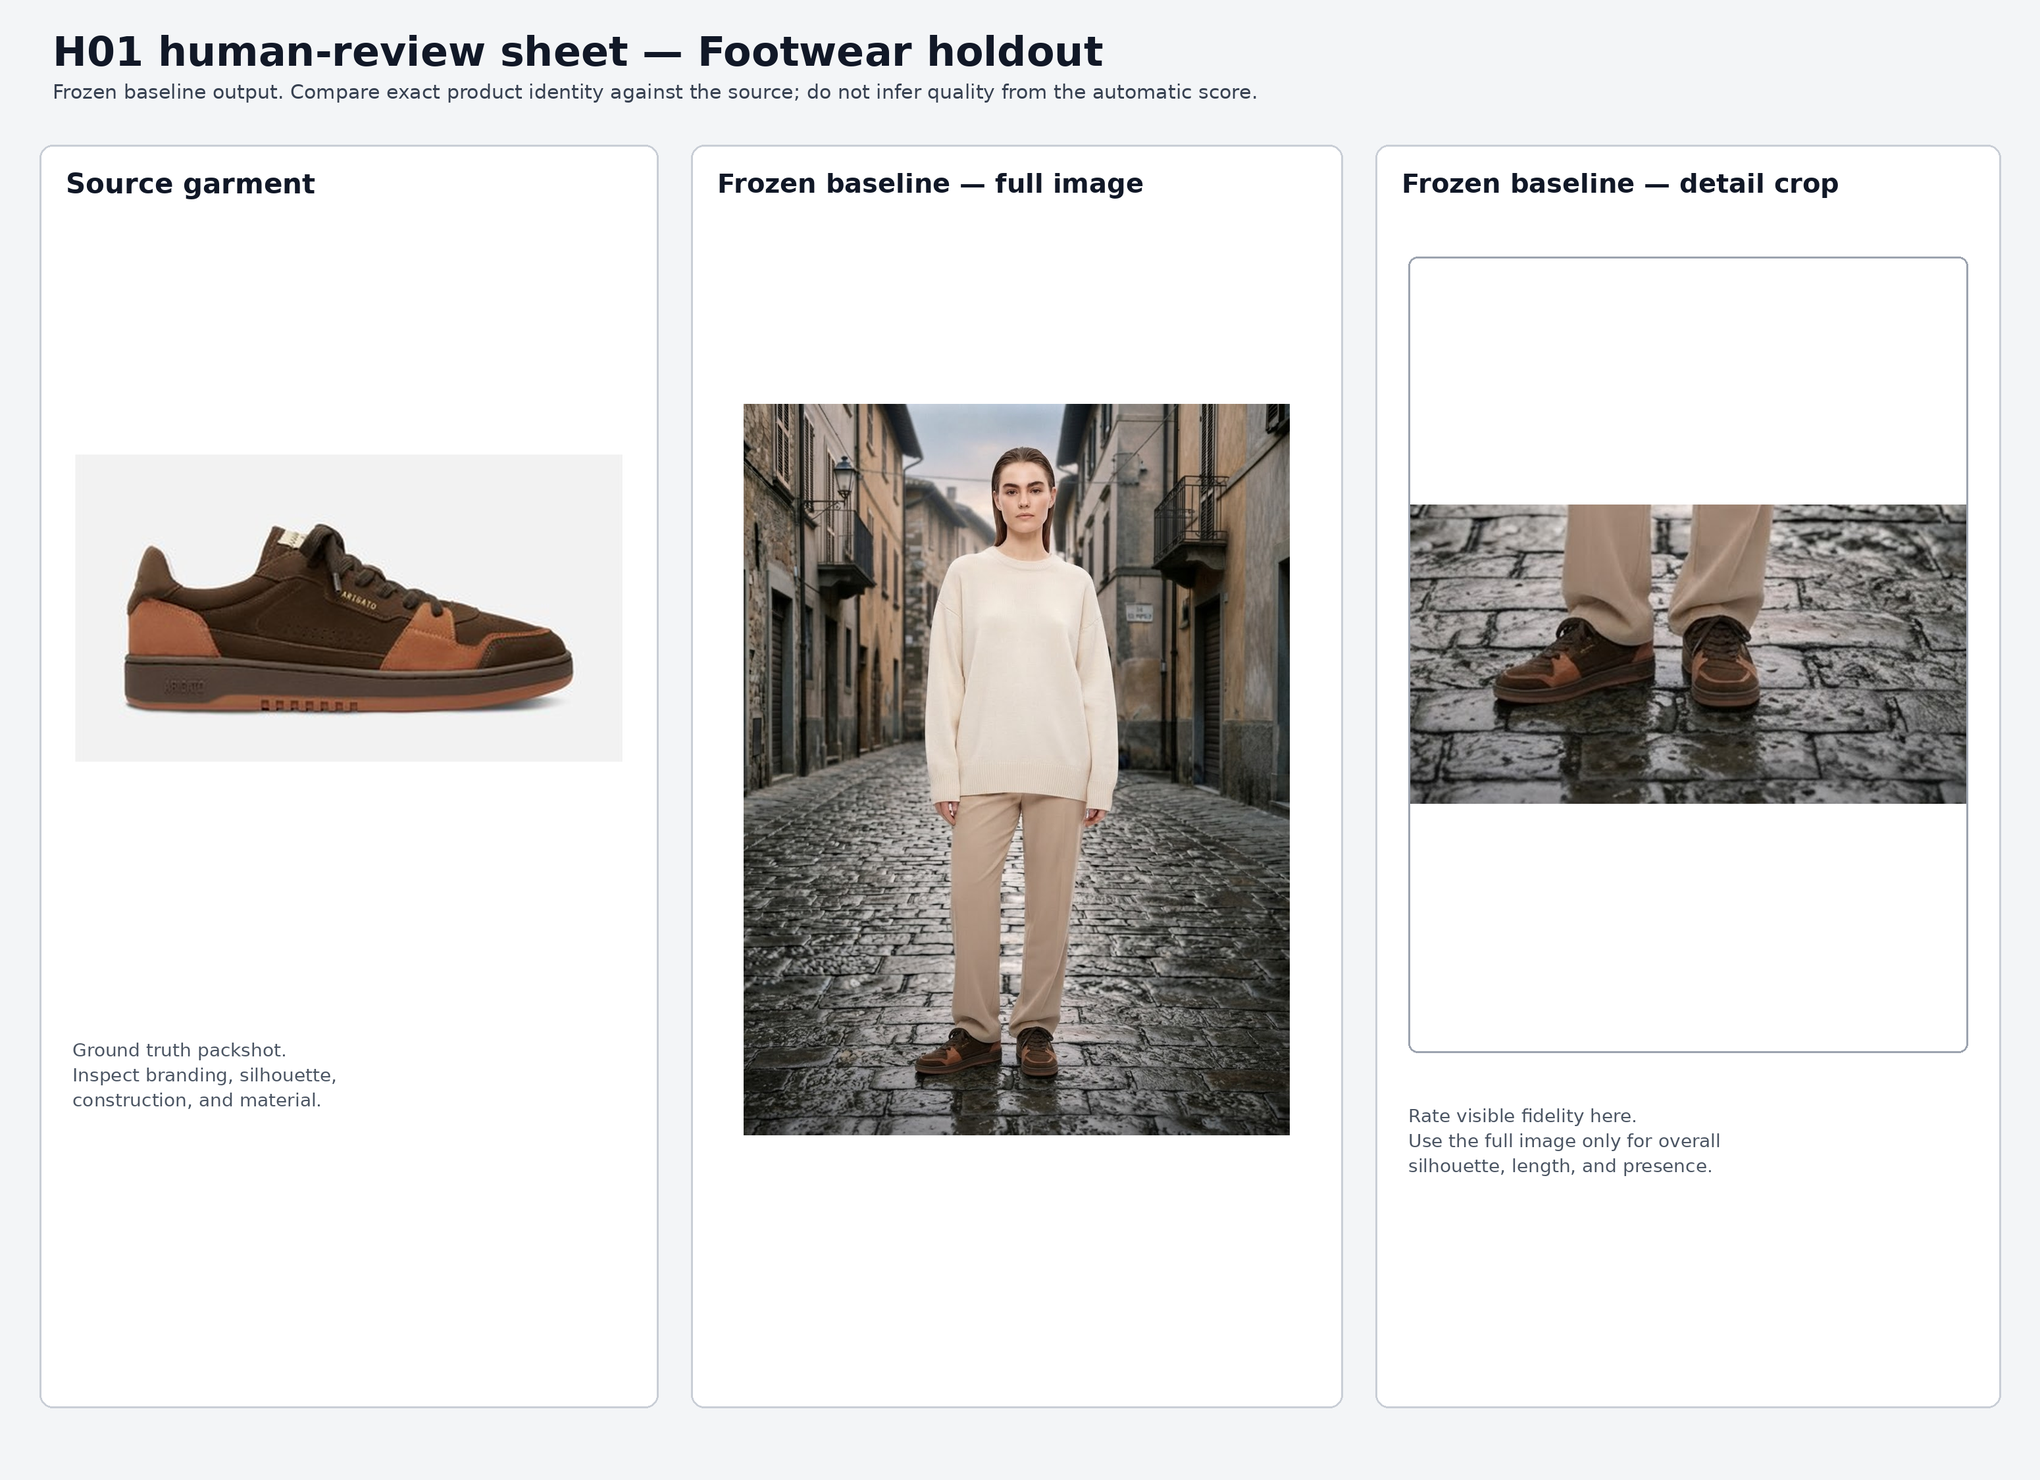
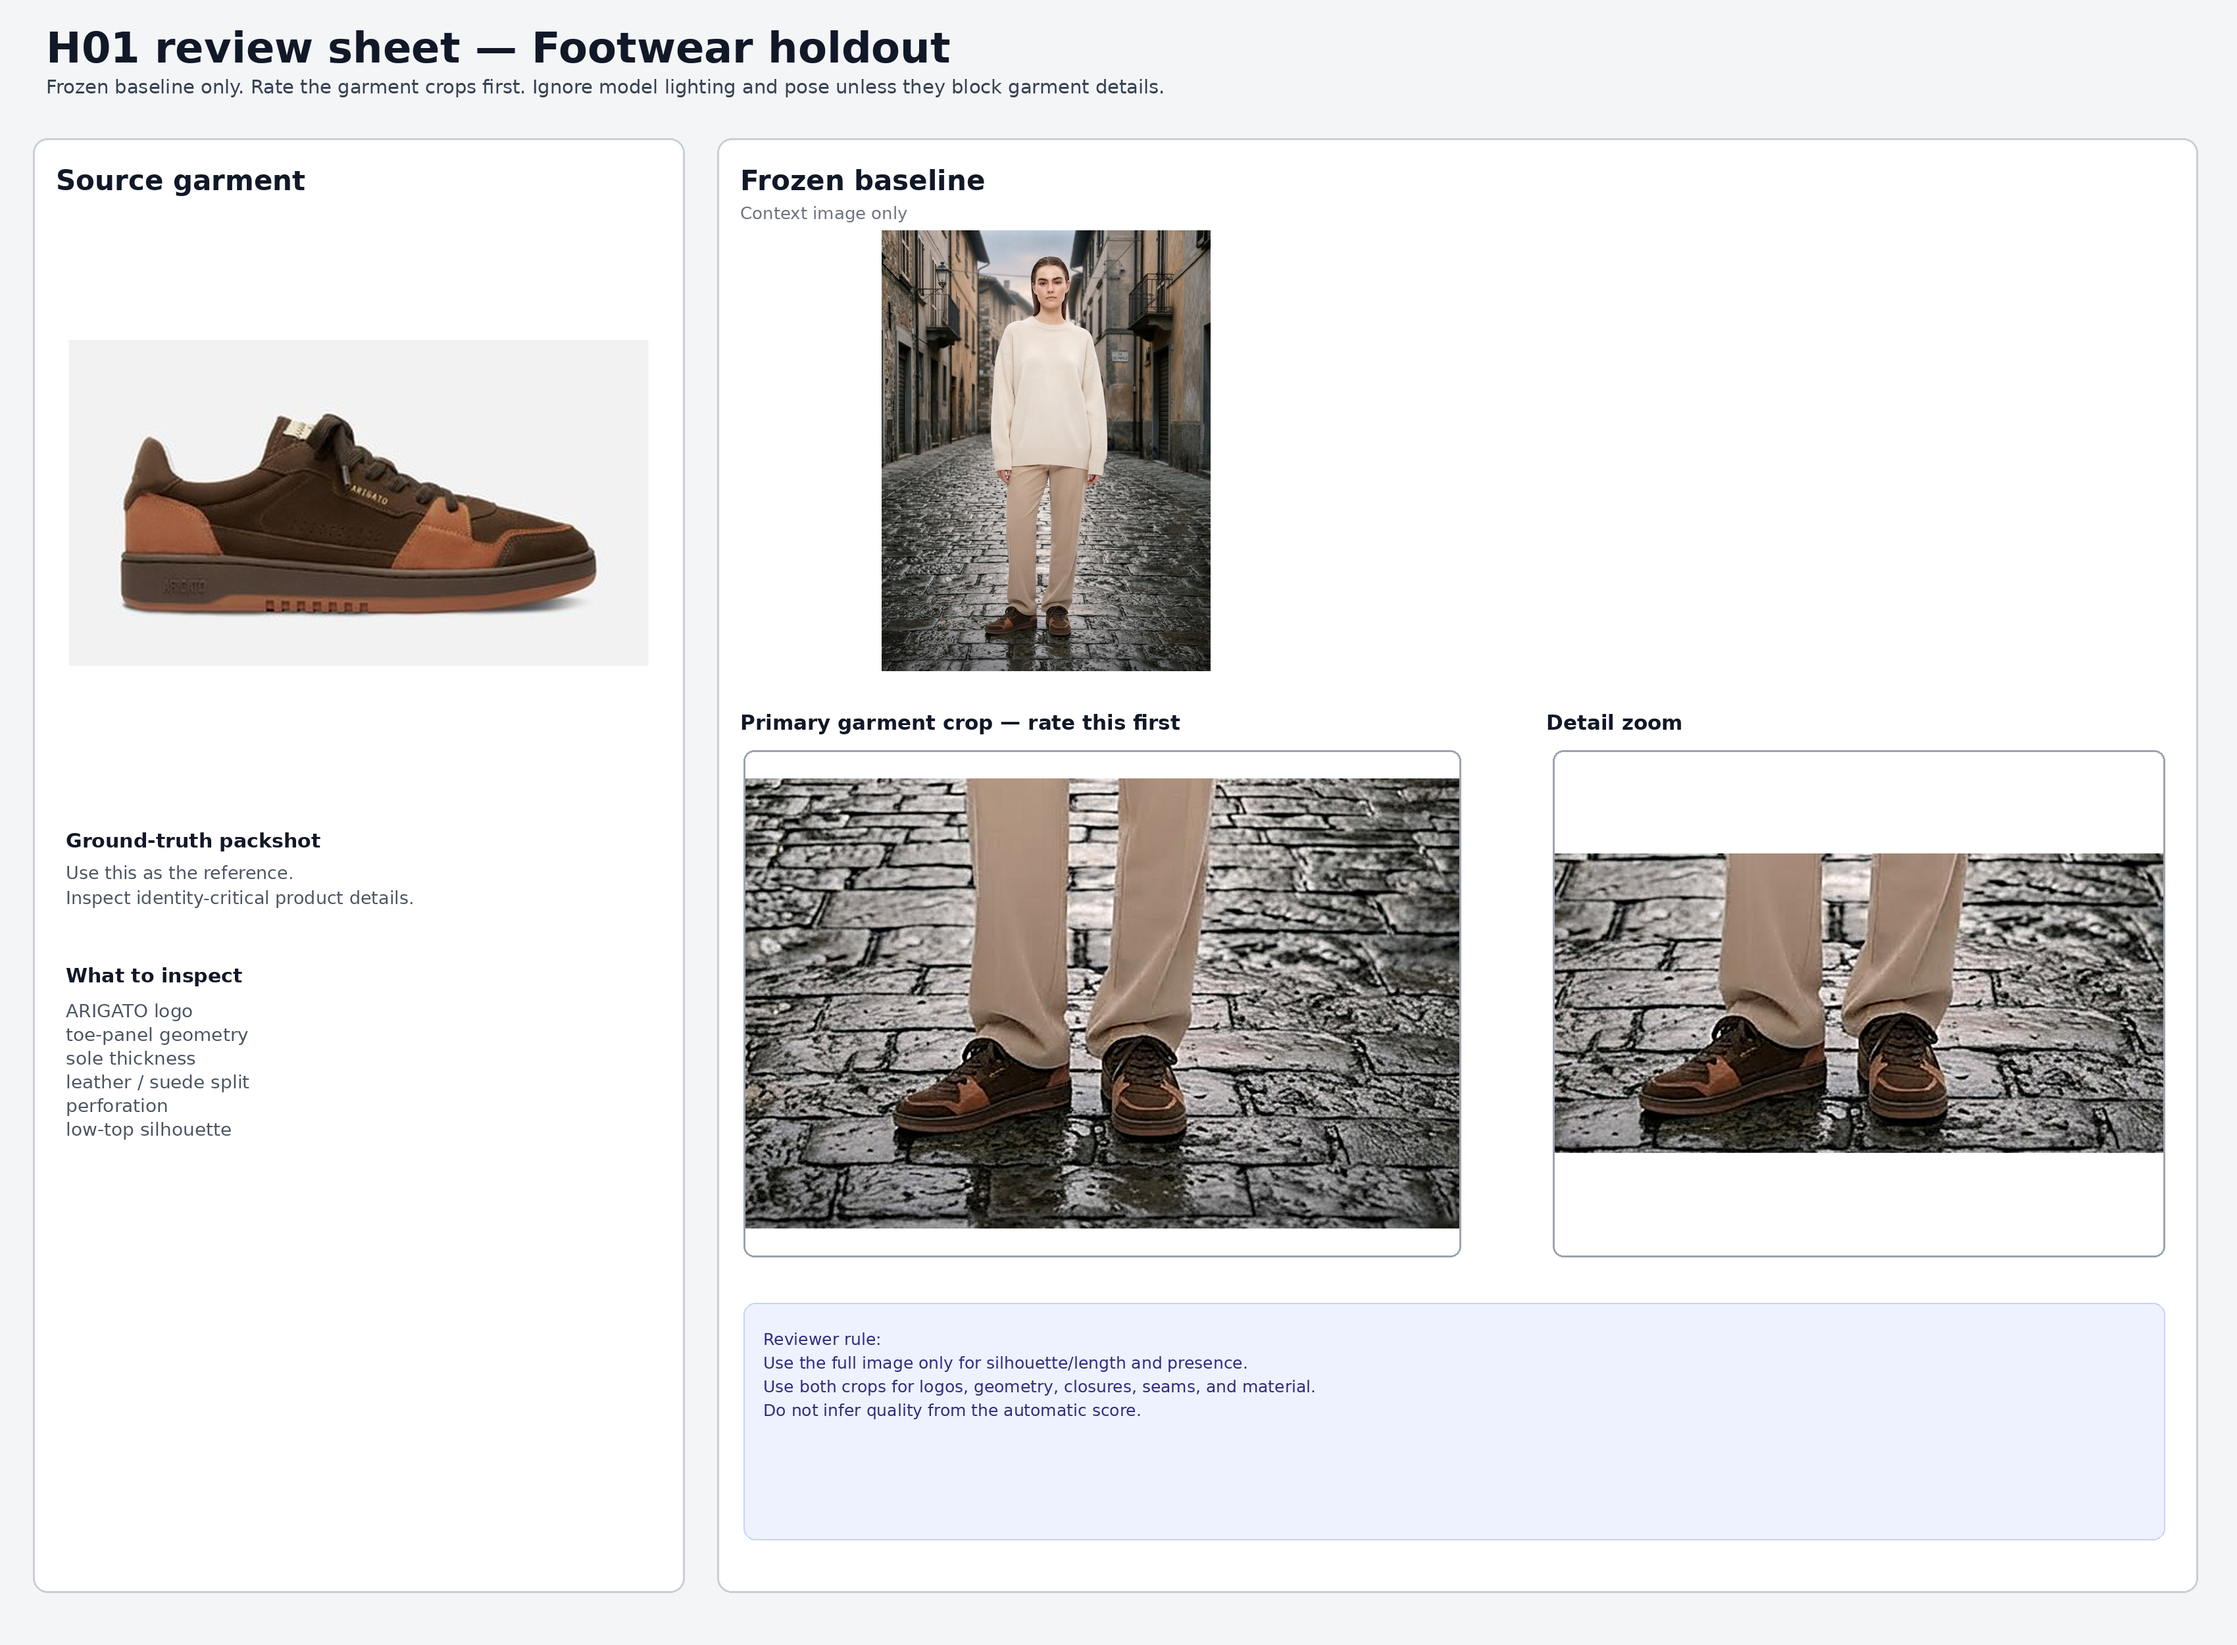
docs: make human review crop-first
Replace the pose- and lighting-heavy review layout with crop-first evidence built from the original full-resolution outputs.

Make enlarged garment crops the primary rating surface, add tighter identity-detail zooms, and reserve the small full-scene view for silhouette/length and garment presence. Update the protocol to exclude pose, stance, facial expression, background aesthetics, and aesthetic lighting from garment-fidelity judgments while preserving visible color drift as a valid failure mode.

Validate PNG integrity and dimensions, dependency sync, Ruff, strict mypy, pytest, and package build. No generated candidate, prompt, automatic score, cost, or experiment decision changed.

diff --git a/submission/HUMAN_REVIEW.md b/submission/HUMAN_REVIEW.md
@@ -2,7 +2,7 @@
 
 ## Status and disclosure
 
-The high-resolution review sheets are prepared. Numeric ratings are **pending**.
+The crop-first review sheets are prepared. Numeric ratings are **pending**.
 
 The reviewer will be **Maksym Koval, the assignment author**. This satisfies the task's human sanity-check requirement, but it is not independent or multi-rater human evaluation. The raw ratings and calculated summaries will be committed after the reviewer submits the completed form.
 
@@ -11,7 +11,7 @@ No image was regenerated for this review. The sheets reuse the frozen outputs fr
 - development workflow run `30102014361`, artifact `development-matrix-30102014361`;
 - holdout workflow run `30113526488`, artifact `frozen-holdouts-30113526488`.
 
-The sheets change presentation only. They do not change prompts, candidates, automatic scores, costs, or the frozen baseline decision.
+The revised sheets change presentation only. They do not change prompts, candidates, automatic scores, costs, or the frozen baseline decision. The garment crops come from the original full-resolution outputs. A small display-only clarity pass was applied equally to every crop; no relighting, recoloring, segmentation, or content generation was used.
 
 ## Review sheets
 
@@ -23,7 +23,27 @@ Open each PNG at full resolution before scoring:
 - [H01 — footwear holdout](review/H01-human-review.png)
 - [H02 — shorts holdout](review/H02-human-review.png)
 
-Do not consult the existing automatic or ChatGPT visual scores until all ratings are complete. Compare each generated garment directly against the source garment. Scene realism, pose, identity, and background quality are out of scope unless they prevent garment inspection.
+Do not consult the existing automatic or ChatGPT visual scores until all ratings are complete.
+
+## Rating order and confound control
+
+The methods generated separate full scenes, so pose, stance, facial expression, and lighting can differ. Those differences must not become a proxy for garment quality.
+
+Use this fixed order for every output:
+
+1. **Primary garment crop:** assign the garment-fidelity scores from this crop first.
+2. **Detail zoom:** inspect logos, text, closures, buttons, pockets, seams, panels, perforation, stitching, and material boundaries.
+3. **Small context image:** use only for overall silhouette/length and garment presence, or when a crop hides relevant context.
+
+Ignore these unless they prevent garment inspection:
+
+- model pose or stance;
+- facial expression or body presentation;
+- how flattering or aesthetically strong the person render looks;
+- background realism or composition;
+- scene lighting as an aesthetic quality.
+
+Lighting can still cause real visible garment-color drift. Score the visible garment color against the source, but do not reward a method merely because its model or scene is better lit.
 
 ## Scoring rubric
 

diff --git a/submission/review/README.md b/submission/review/README.md
@@ -1,13 +1,17 @@
-# High-resolution human-review sheets
+# Crop-first human-review sheets
 
 Use these sheets with [`submission/HUMAN_REVIEW.md`](../HUMAN_REVIEW.md). Open each PNG at full size before assigning scores.
 
+The small full-scene image is context only. Rate the enlarged garment crop first, then use the tighter detail zoom for logos, closures, pockets, seams, panels, stitching, perforation, and material boundaries. Use the full scene only for silhouette/length and garment presence.
+
 | Case | Scope | Resolution |
 | --- | --- | ---: |
-| [D01](D01-human-review.png) | Source, baseline, structured, best-of-two, and garment crops | 4200×2400 |
-| [D02](D02-human-review.png) | Source, baseline, structured, best-of-two, and garment crops | 4200×2400 |
-| [D03](D03-human-review.png) | Source, baseline, structured, best-of-two, and garment crops | 4200×2400 |
-| [H01](H01-human-review.png) | Source, frozen baseline, and footwear crop | 3100×2250 |
-| [H02](H02-human-review.png) | Source, frozen baseline, and shorts crop | 3100×2250 |
+| [D01](D01-human-review.png) | Source, three methods, primary shorts crops, and detail zooms | 4500×2800 |
+| [D02](D02-human-review.png) | Source, three methods, primary footwear crops, and detail zooms | 4500×2800 |
+| [D03](D03-human-review.png) | Source, three methods, primary jacket crops, and detail zooms | 4500×2800 |
+| [H01](H01-human-review.png) | Source, frozen baseline, primary footwear crop, and detail zoom | 3400×2500 |
+| [H02](H02-human-review.png) | Source, frozen baseline, primary shorts crop, and detail zoom | 3400×2500 |
 
-The sheets were reconstructed from the unchanged full-resolution artifacts produced by development workflow run `30102014361` and holdout workflow run `30113526488`. They alter presentation only; no generated image, score, or experiment decision changed.
+The sheets were reconstructed from the unchanged full-resolution artifacts produced by development workflow run `30102014361` and holdout workflow run `30113526488`. Pose, stance, facial expression, and aesthetic scene lighting are explicitly excluded from garment-fidelity scoring unless they prevent inspection.
+
+The presentation changes do not alter any generated candidate, automatic score, cost, or experiment decision.
